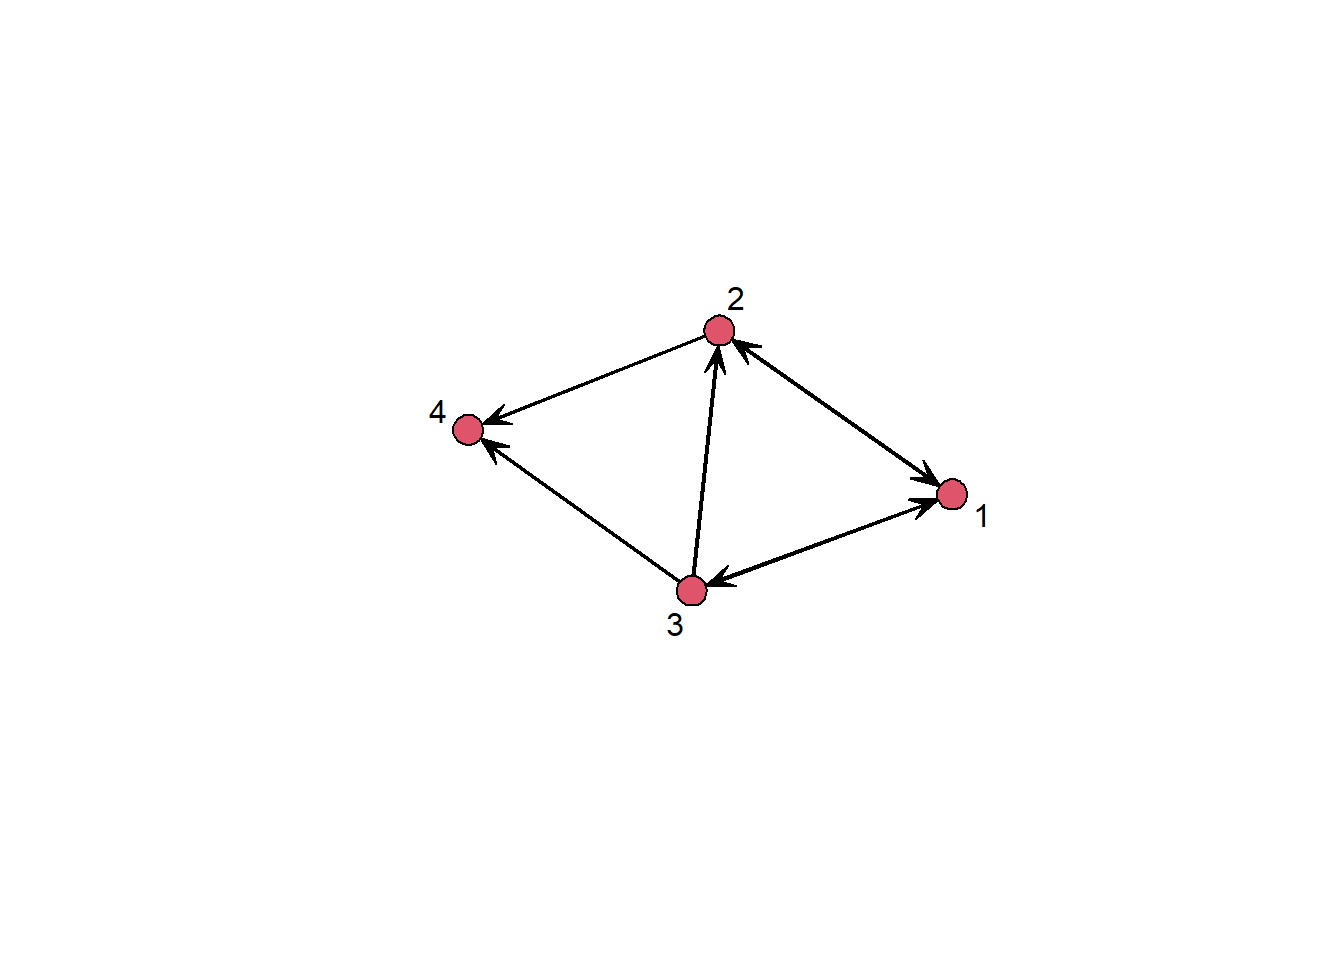
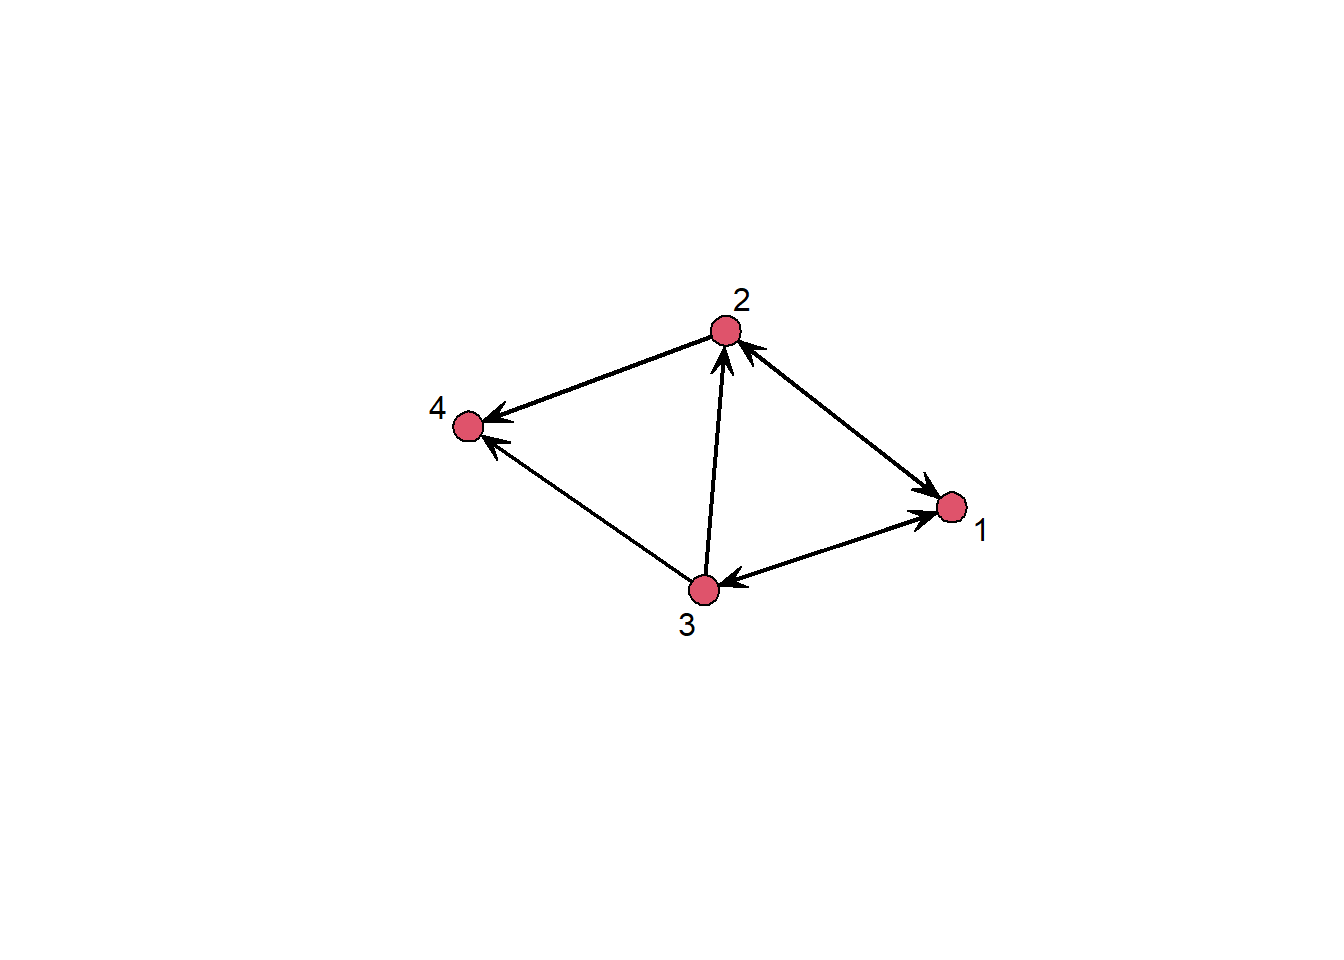
Built site for gh-pages

diff --git a/06-network-types.html b/06-network-types.html
@@ -411,11 +411,11 @@ window.Quarto = {
 <div class="sourceCode cell-code" id="cb8"><pre class="sourceCode r code-with-copy"><code class="sourceCode r"><span id="cb8-1"><a href="#cb8-1" aria-hidden="true" tabindex="-1"></a>adj_weighted <span class="ot">&lt;-</span> <span class="fu">matrix</span>(<span class="fu">rnorm</span>(<span class="dv">16</span>), <span class="at">nrow =</span> <span class="dv">4</span>, <span class="at">ncol =</span> <span class="dv">4</span>)</span>
 <span id="cb8-2"><a href="#cb8-2" aria-hidden="true" tabindex="-1"></a>adj_weighted</span></code><button title="Copy to Clipboard" class="code-copy-button"><i class="bi"></i></button></pre></div>
 <div class="cell-output cell-output-stdout">
-<pre><code>           [,1]       [,2]       [,3]       [,4]
-[1,] -1.1385894  1.6729069 -0.7410201 -1.8202486
-[2,] -0.1522689  0.8998536 -0.4240072  0.8714341
-[3,] -0.2756662 -0.7627459 -1.1815495 -0.4555749
-[4,] -0.4020655 -0.6641086 -0.3350928 -0.7352120</code></pre>
+<pre><code>           [,1]        [,2]       [,3]       [,4]
+[1,] -0.6030230 -0.26714468 -0.3651462  0.9598961
+[2,]  1.3653667 -1.74569287  0.4231739  0.5669126
+[3,] -0.9468761 -0.08052606  1.1921851 -1.9213248
+[4,]  0.3121404  0.35747477 -0.1266203  1.9689559</code></pre>
 </div>
 </div>
 <p>By default, the <code>network(...)</code> function ignores edge values/weights. We here accordingly specify <code>ignore.eval = FALSE</code> and specify a name for our weights by setting <code>names.eval = "name"</code>:</p>
@@ -453,10 +453,10 @@ window.Quarto = {
 <span id="cb12-3"><a href="#cb12-3" aria-hidden="true" tabindex="-1"></a>adj_dicho</span></code><button title="Copy to Clipboard" class="code-copy-button"><i class="bi"></i></button></pre></div>
 <div class="cell-output cell-output-stdout">
 <pre><code>     [,1] [,2] [,3] [,4]
-[1,]    0    1    0    0
-[2,]    0    1    0    1
-[3,]    0    0    0    0
-[4,]    0    0    0    0</code></pre>
+[1,]    0    0    0    1
+[2,]    1    0    1    1
+[3,]    0    0    1    0
+[4,]    1    1    0    1</code></pre>
 </div>
 </div>
 <p>In the dichotomized matrix, all cells with a value of <span class="math inline">\(0.3\)</span> or more are set to <span class="math inline">\(1\)</span> while all cells below the threshold are set to a <span class="math inline">\(0\)</span>. We can then pass the dichotomized adjacency matrix to the network constructor again:</p>
